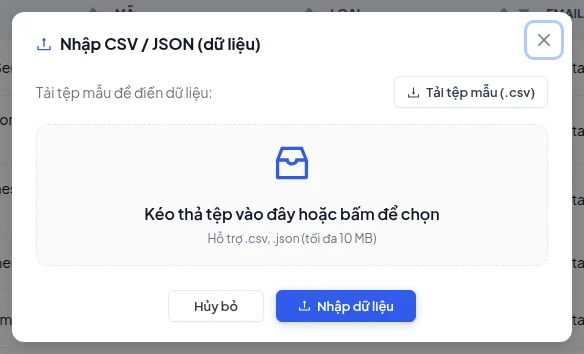
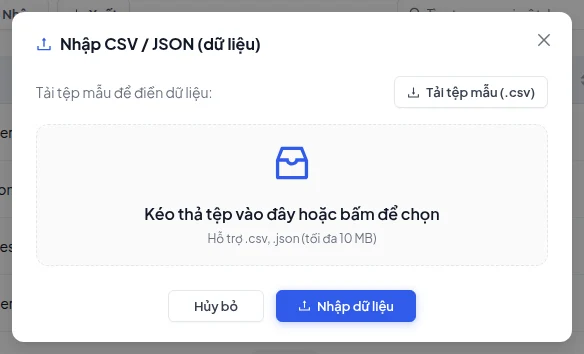
docs: refresh the administration guide pictures
Resource columns are a little narrower so a whole row fits a 1440px screen. The guide capture marks the welcome as seen in the administrator steps, so they can run on their own.

diff --git a/apps/web/src/features/platform/ResourcePage.tsx b/apps/web/src/features/platform/ResourcePage.tsx
@@ -328,19 +328,19 @@ function ResourceView({ resource }: { resource: string }) {
       ? 340
       : ["name", "displayName", "description"].includes(field.key) ||
           (field.key === "title" && resource !== "users")
-        ? 240
+        ? 220
         : field.key === "requiredEvents"
           ? 260
           : field.key === "signerRoles"
             ? 300
             : field.type === "email" || field.ref
-              ? 220
+              ? 200
               : field.type === "select"
-                ? 170
+                ? 150
                 : field.type === "boolean" || field.type === "number"
                   ? 110
                   : ["code", "sha256", "recordId"].includes(field.key)
-                    ? 150
+                    ? 130
                     : 180;
   const shownFields = fields.filter(
     (field) =>
@@ -410,7 +410,7 @@ function ResourceView({ resource }: { resource: string }) {
             key: "origin",
             dataIndex: "origin",
             title: fieldLabel("origin"),
-            width: 140,
+            width: 130,
             render: (value: Origin | undefined) =>
               value ? <OriginTag origin={value} /> : "—",
           },
@@ -423,7 +423,7 @@ function ResourceView({ resource }: { resource: string }) {
             key: "updatedAt",
             dataIndex: "updatedAt",
             title: fieldLabel("updatedAt"),
-            width: 160,
+            width: 150,
             sorter: true,
             render: (value: string) => (value ? formatDateTime(value) : "—"),
           },
